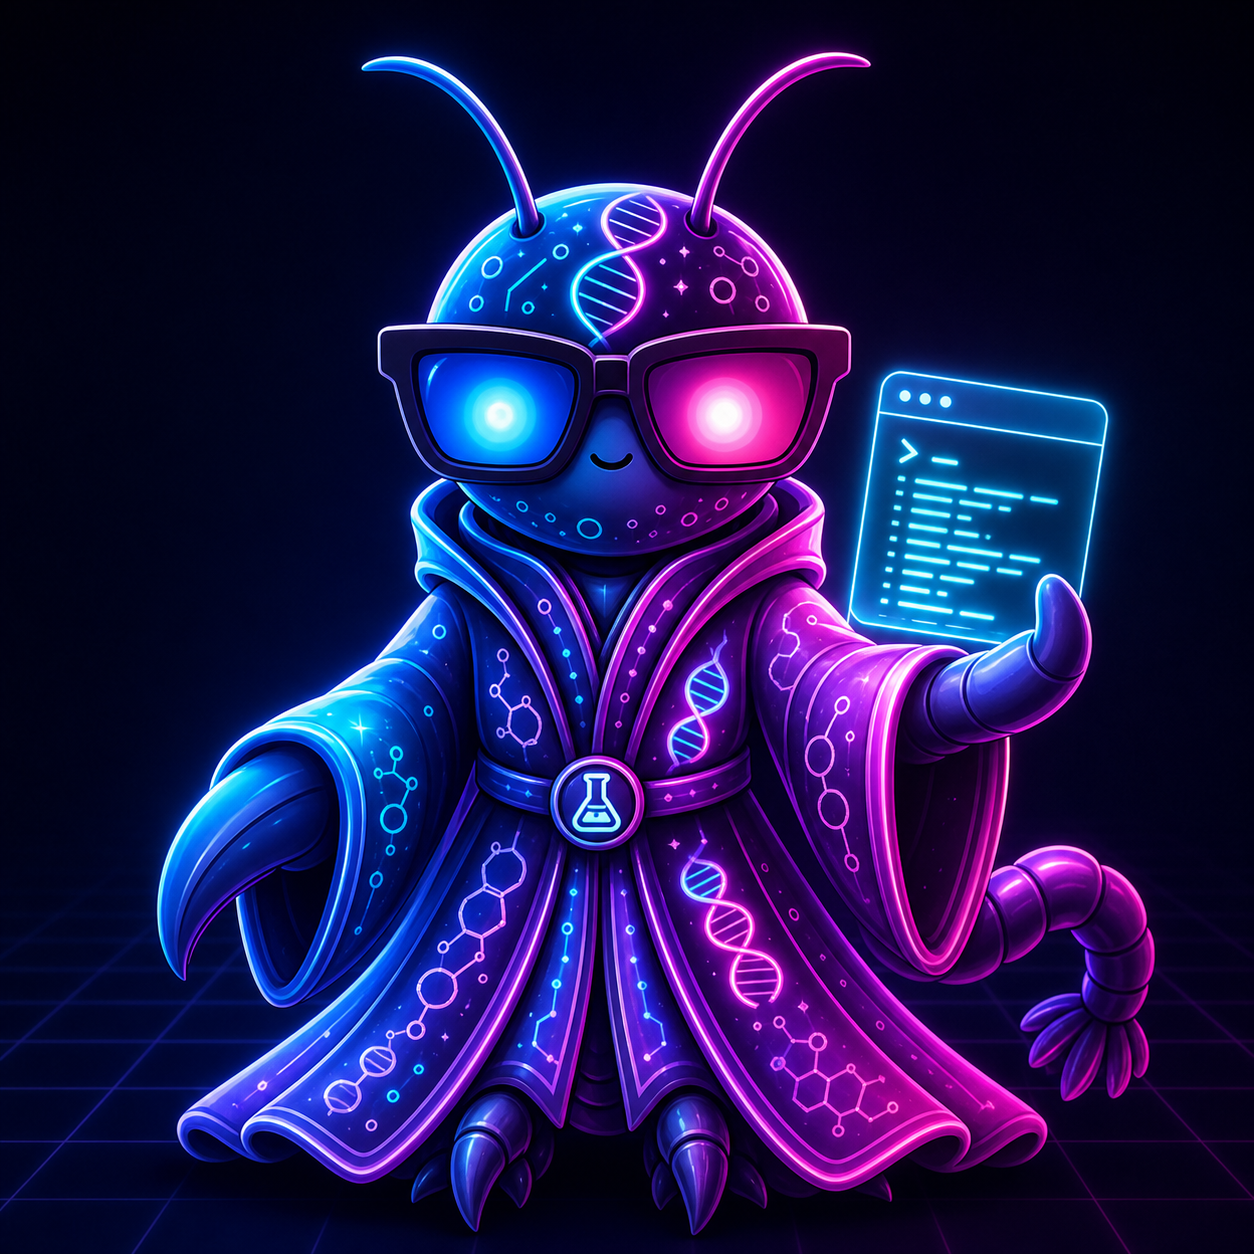
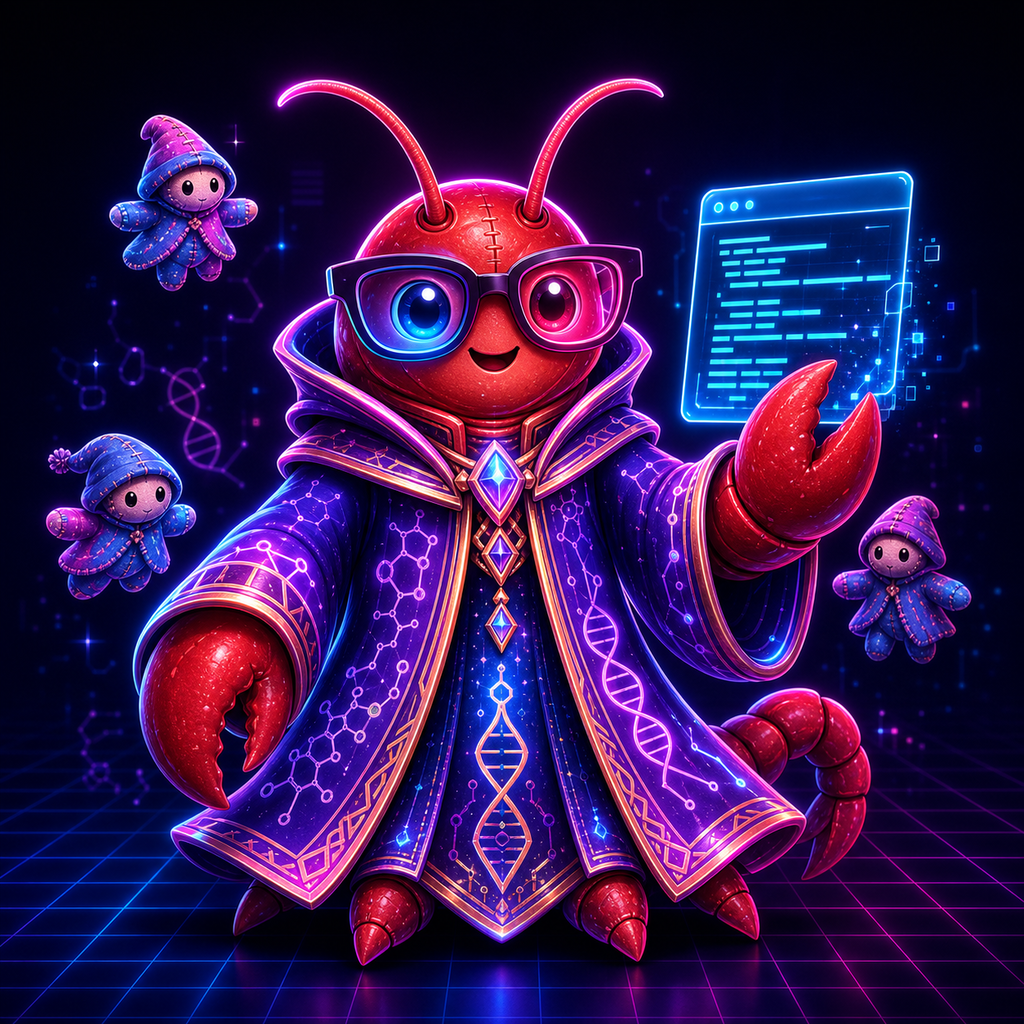
Update red crayfish mascot assets

diff --git a/assets/AGENTS.md b/assets/AGENTS.md
@@ -9,7 +9,8 @@ Static binary assets (images) used for project branding, documentation, and TUI/
 ## Key Files
 | File | Description |
 |------|-------------|
-| `character.png` | Neon-lens coding-agent mascot (blue lens → violet gown → pink lens) holding a glowing terminal; the brand's synthwave identity, used in README branding and helper scripts |
+| `character.png` | Static source render of the red crayfish coding-wizard mascot: cyan/red glasses, crimson shell shifting through magenta/violet/purple, and floating jeopi-inspired plush companions |
+| `character.gif` | Animated README mascot derived from the PerfectPixel-style sprite sheet; idle hover loop with pulsing glasses, antenna glow, and orbiting plush companions |
 | `hero.png` | Primary hero/banner image for documentation (autonomous coding-agent scene) |
 | `icon.png` | Project icon (mascot face, 1024×1024) shown in README headers |
 | `icon-master.png` | Full-resolution source for the generated project icon |

diff --git a/README.ja.md b/README.ja.md
@@ -16,7 +16,7 @@
 </p>
 
 <p align="center">
-  <img src="assets/character.png" alt="jeo-code キャラクターマスコット" width="320" />
+  <img src="assets/character.gif" alt="動く jeo-code 赤いザリガニマスコット" width="320" />
 </p>
 
 <p align="center">

diff --git a/README.ko.md b/README.ko.md
@@ -16,7 +16,7 @@
 </p>
 
 <p align="center">
-  <img src="assets/character.png" alt="jeo-code 캐릭터 마스코트" width="320" />
+  <img src="assets/character.gif" alt="움직이는 jeo-code 붉은 가재 마스코트" width="320" />
 </p>
 
 <p align="center">

diff --git a/README.md b/README.md
@@ -16,7 +16,7 @@
 </p>
 
 <p align="center">
-  <img src="assets/character.png" alt="jeo-code character mascot" width="320" />
+  <img src="assets/character.gif" alt="animated jeo-code red crayfish mascot" width="320" />
 </p>
 
 <p align="center">

diff --git a/README.zh.md b/README.zh.md
@@ -16,7 +16,7 @@
 </p>
 
 <p align="center">
-  <img src="assets/character.png" alt="jeo-code 吉祥物" width="320" />
+  <img src="assets/character.gif" alt="动态 jeo-code 红色小龙虾吉祥物" width="320" />
 </p>
 
 <p align="center">
